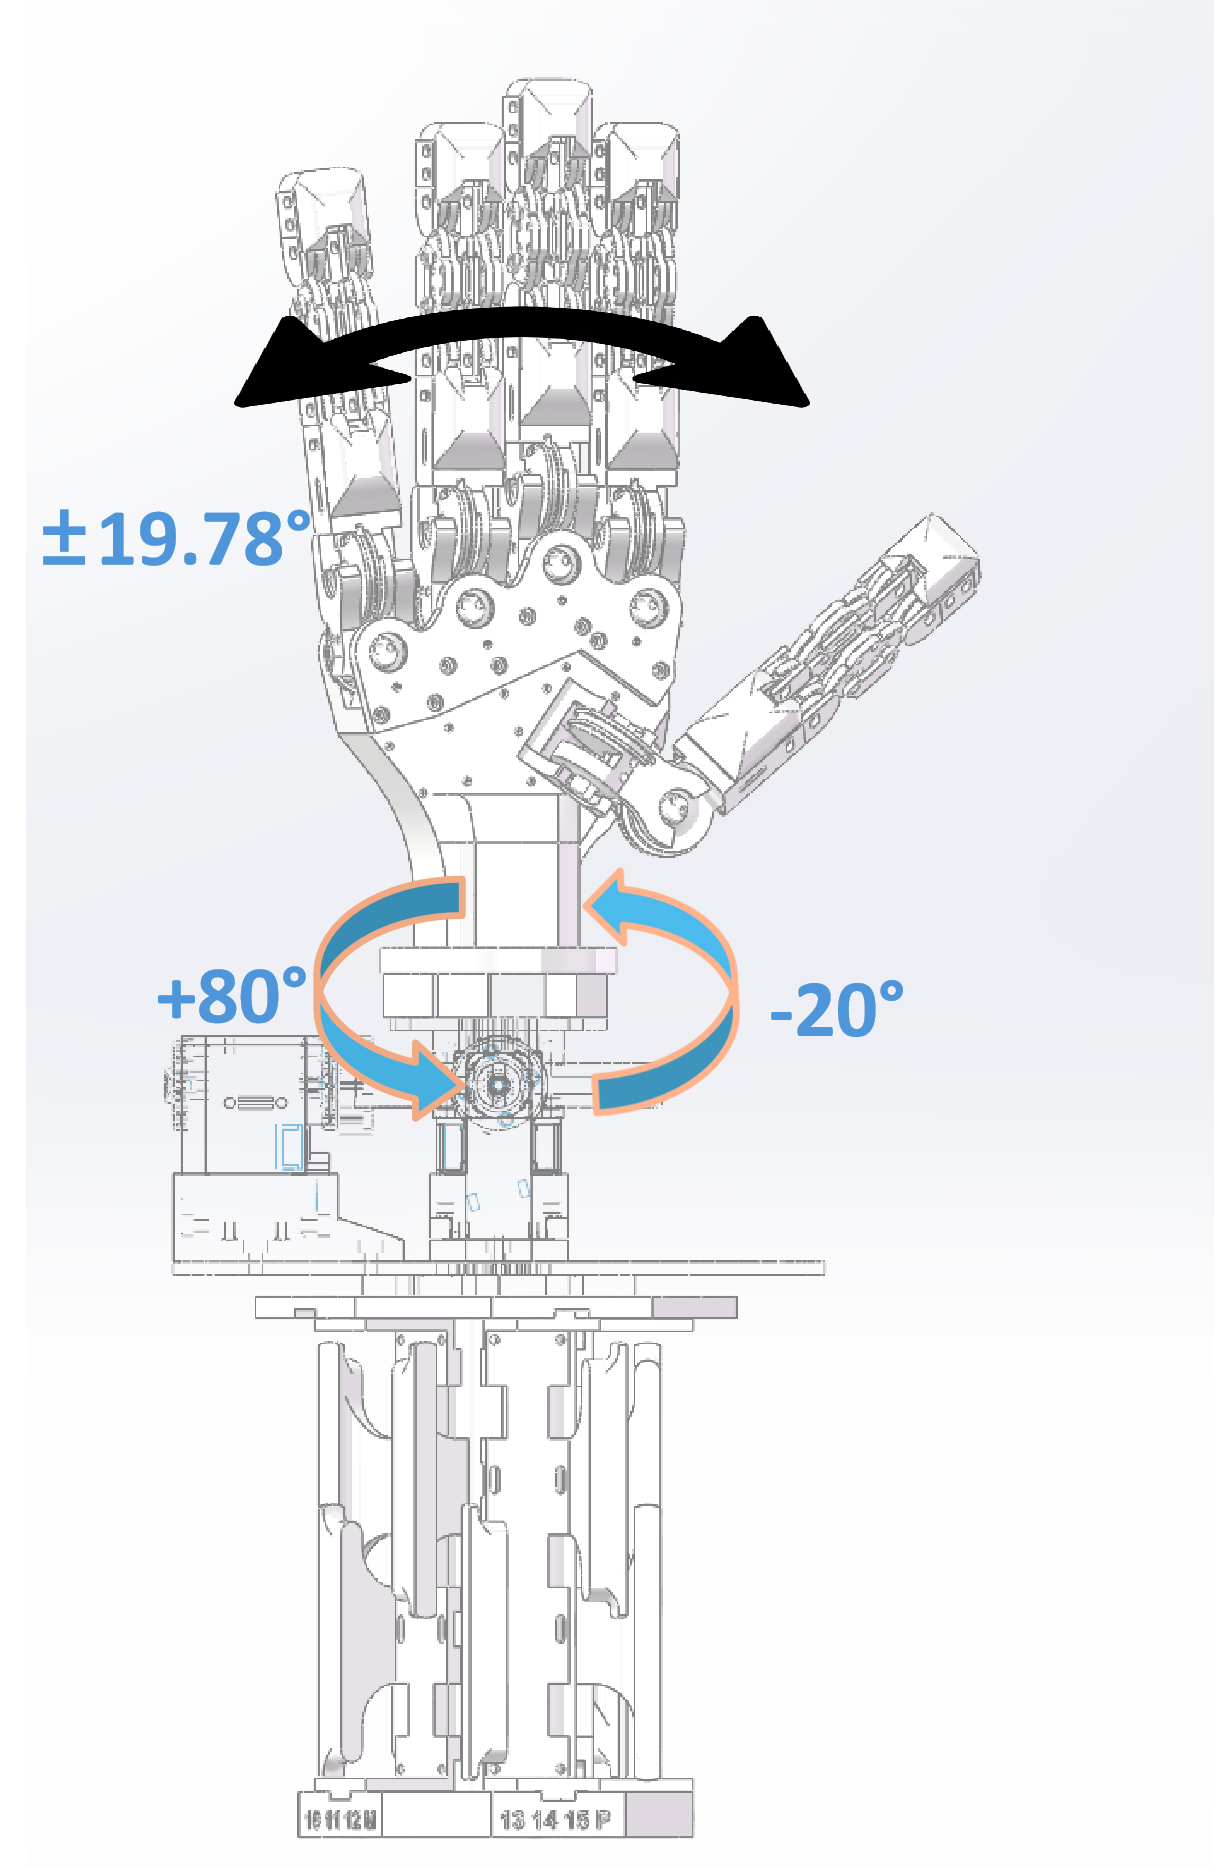
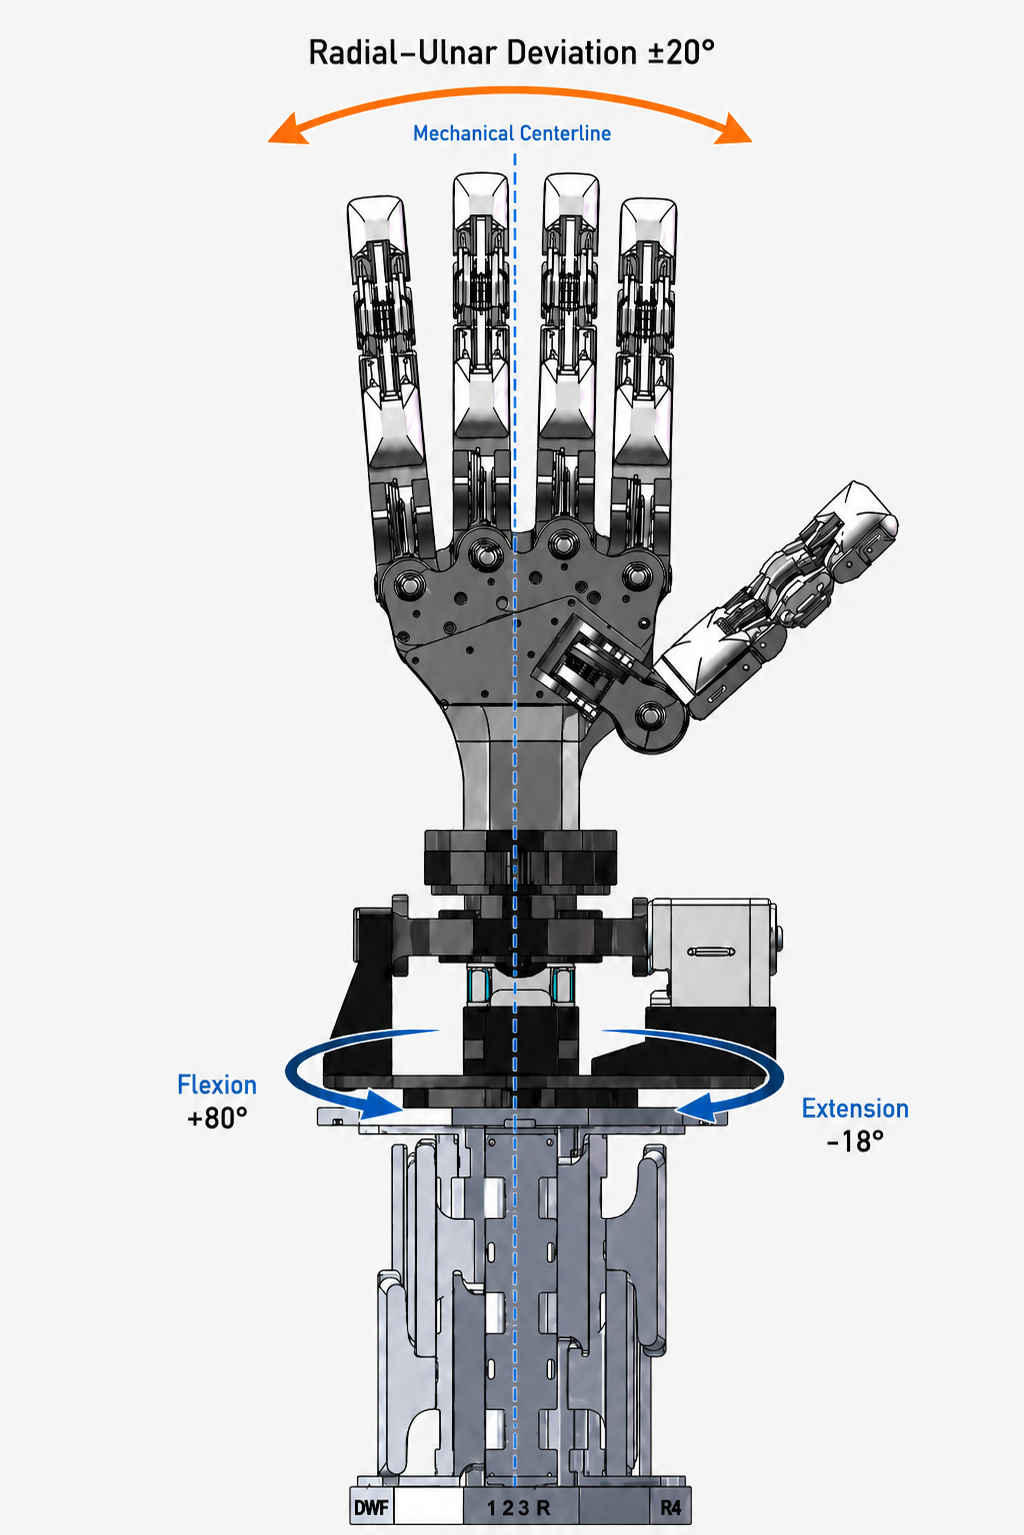
Add CSV-backed coupling characterization figure

Changed region(s): [[0.0312, 0.0306, 0.875, 1.0]]

diff --git a/app/page.tsx b/app/page.tsx
@@ -69,7 +69,7 @@ export default function Home() {
         <section className="section-shell design-section" id="design">
           <div className="section-heading"><div><p className="section-kicker">03 / Mechanical design</p><h2>Two axes. One wrist center.</h2></div><p className="heading-note">A compact extension designed around the existing hand, tendon route, and service needs.</p></div>
           <div className="design-layout">
-            <figure className="design-figure workspace-figure"><PictureImage src="/media/craft-w-wrist-workspace.png" width={1215} height={1868} alt="CRAFT-W wrist workspace showing the bending and axial-rotation ranges" loading="lazy" decoding="async" /><figcaption><span>Fig. 02 / wrist workspace</span><span>±19.78° bending · +80° / −20° axial</span></figcaption></figure>
+            <figure className="design-figure workspace-figure"><PictureImage src="/media/craft-w-wrist-workspace.png" width={1024} height={1536} alt="CRAFT-W wrist workspace showing radial–ulnar deviation and flexion–extension ranges" loading="lazy" decoding="async" /><figcaption><span>Fig. 02 / wrist workspace</span><span>±20° deviation · +80° flexion / −18° extension</span></figcaption></figure>
             <div className="design-content"><p className="design-intro">The wrist carries the distal hand as an independent module, so the existing hand mechanics, electronics, and finger-control stack remain intact.</p><div className="feature-list">{designFeatures.map((feature) => <article className="feature-card" key={feature.index}><span className="feature-index">{feature.index}</span><div><h3>{feature.title}</h3><p>{feature.body}</p></div></article>)}</div></div>
           </div>
           <div className="spec-strip" aria-label="CRAFT-W specifications">{specs.map((spec) => <div className="spec-item" key={spec.label}><span>{spec.label}</span><strong>{spec.value}</strong></div>)}</div>
@@ -78,7 +78,7 @@ export default function Home() {
         <section className="coupling-section" id="coupling">
           <div className="section-shell">
             <div className="section-heading"><div><p className="section-kicker">04 / Coupling characterization</p><h2>Test the finger across four wrist postures.</h2></div><p className="heading-note">The paper treats wrist–finger coupling as a preliminary mechanical characterization—not a complete identification.</p></div>
-            <div className="coupling-grid"><div className="coupling-copy"><p className="label">Experimental setup</p><p className="large-copy">The wrist was fixed at 15°, 30°, 45°, and 60° while finger motor 2 followed the same outward-and-return sweep.</p><p>The finger reached its prescribed travel at every posture. The comparison therefore asks how wrist posture changes motor loading, rather than whether the hand can still move.</p><div className="coupling-stats" aria-label="Coupling characterization summary"><div><strong>4</strong><span>wrist postures</span></div><div><strong>300 mA</strong><span>peak return current</span></div><div><strong>17%</strong><span>of 1750 mA limit</span></div></div></div><figure className="coupling-route"><PictureImage src="/media/wrist-tendon-routing.png" webp="/media/wrist-tendon-routing.webp" width={1800} height={1311} alt="Neutral and rotated CRAFT-W poses showing how wrist motion changes the finger tendon routing paths" loading="lazy" decoding="async" /><figcaption><span>Neutral → rotated wrist</span><span>Changing tendon paths</span></figcaption></figure></div>
+            <div className="coupling-grid"><div className="coupling-copy"><p className="label">Experimental setup</p><p className="large-copy">The wrist was fixed at 15°, 30°, 45°, and 60° while finger motor 2 followed the same outward-and-return sweep.</p><p>The finger reached its prescribed travel at every posture. The comparison therefore asks how wrist posture changes motor loading, rather than whether the hand can still move.</p><div className="coupling-stats" aria-label="Coupling characterization summary"><div><strong>4</strong><span>wrist postures</span></div><div><strong>300 mA</strong><span>peak return current</span></div><div><strong>17%</strong><span>of 1750 mA limit</span></div></div></div><figure className="coupling-route coupling-data-figure"><PictureImage src="/media/craft-w-coupling-characterization.png" width={4825} height={2792} alt="Motor 2 current traces during outward and return finger sweeps at wrist postures of 15, 30, 45, and 60 degrees" loading="lazy" decoding="async" /><figcaption><span>Motor 2 current / 516 readbacks</span><span>Solid: outward · dashed: return</span></figcaption></figure></div>
             <div className="coupling-findings"><article><p className="label">Result</p><p>Return loading was similar at 15° and 30°, increased at 45°, and was largest at 60°, where peak current reached 300 mA. No over-current event occurred.</p></article><article><p className="label">Interpretation</p><p>The separation between outward and return traces is consistent with tendon friction, routing hysteresis, or local stick–slip motion.</p></article><article><p className="label">Limit</p><p>With one sweep per posture and no current-to-torque calibration, these measurements remain preliminary rather than a complete mechanical identification.</p></article></div>
           </div>
         </section>

diff --git a/scripts/plot_coupling_characterization.py b/scripts/plot_coupling_characterization.py
@@ -1,0 +1,191 @@
+"""Plot the finger-motor loading sweep across fixed wrist postures.
+
+The input CSV is intentionally supplied at runtime so the private source-data
+location is not embedded in the site repository.
+"""
+
+from __future__ import annotations
+
+import argparse
+import csv
+from pathlib import Path
+
+import matplotlib as mpl
+import matplotlib.pyplot as plt
+from matplotlib.lines import Line2D
+
+
+COLORS = {
+    15.0: "#0F4D92",
+    30.0: "#42949E",
+    45.0: "#9A4D8E",
+    60.0: "#D97706",
+}
+
+
+def read_rows(path: Path) -> list[dict[str, float | str]]:
+    with path.open(newline="", encoding="utf-8-sig") as handle:
+        rows = list(csv.DictReader(handle))
+
+    required = {"time_s", "wrist_angle_deg", "direction", "travel_pct", "cur2"}
+    missing = required.difference(rows[0].keys() if rows else ())
+    if missing:
+        raise ValueError(f"Missing CSV columns: {', '.join(sorted(missing))}")
+
+    parsed: list[dict[str, float | str]] = []
+    for row in rows:
+        parsed.append(
+            {
+                "time_s": float(row["time_s"]),
+                "wrist_angle_deg": float(row["wrist_angle_deg"]),
+                "direction": row["direction"],
+                "travel_pct": float(row["travel_pct"]),
+                "cur2": float(row["cur2"]),
+            }
+        )
+
+    angles = sorted({row["wrist_angle_deg"] for row in parsed})
+    if angles != sorted(COLORS):
+        raise ValueError(f"Expected wrist postures {sorted(COLORS)}, found {angles}")
+    if {row["direction"] for row in parsed} != {"out", "back"}:
+        raise ValueError("Expected outward ('out') and return ('back') sweeps")
+    return parsed
+
+
+def build_figure(rows: list[dict[str, float | str]]) -> plt.Figure:
+    mpl.rcParams.update(
+        {
+            "font.family": "sans-serif",
+            "font.sans-serif": ["Arial", "Helvetica", "DejaVu Sans", "sans-serif"],
+            "font.size": 9,
+            "svg.fonttype": "none",
+            "pdf.fonttype": 42,
+            "axes.spines.right": False,
+            "axes.spines.top": False,
+            "axes.linewidth": 0.8,
+            "legend.frameon": False,
+        }
+    )
+
+    fig, ax = plt.subplots(figsize=(10, 4.8), facecolor="#F7F7F4")
+    ax.set_facecolor("#FFFFFF")
+
+    for angle in sorted(COLORS):
+        color = COLORS[angle]
+        for direction, linestyle, label in (
+            ("out", "-", "Outward"),
+            ("back", "--", "Return"),
+        ):
+            group = sorted(
+                (
+                    row
+                    for row in rows
+                    if row["wrist_angle_deg"] == angle and row["direction"] == direction
+                ),
+                key=lambda row: float(row["time_s"]),
+            )
+            ax.plot(
+                [row["travel_pct"] for row in group],
+                [row["cur2"] for row in group],
+                color=color,
+                linewidth=1.8,
+                linestyle=linestyle,
+                solid_capstyle="round",
+                dash_capstyle="round",
+                label=f"{int(angle)}° {label.lower()}",
+                zorder=3,
+            )
+
+    peak = max(
+        (row for row in rows if row["direction"] == "back"),
+        key=lambda row: float(row["cur2"]),
+    )
+    peak_x = float(peak["travel_pct"])
+    peak_y = float(peak["cur2"])
+    ax.scatter([peak_x], [peak_y], s=34, color=COLORS[60.0], edgecolor="#FFFFFF", linewidth=1, zorder=5)
+    ax.text(
+        1.0,
+        1.02,
+        "60° return peak · 300 mA",
+        transform=ax.transAxes,
+        ha="right",
+        va="bottom",
+        color="#8B4A00",
+        fontsize=8.5,
+        fontweight="bold",
+    )
+
+    ax.axhline(0, color="#B9BDC0", linewidth=0.8, zorder=1)
+    ax.set_xlim(-2, 102)
+    ax.set_ylim(-120, 330)
+    ax.set_xticks([0, 25, 50, 75, 100])
+    ax.set_yticks([-100, 0, 100, 200, 300])
+    ax.set_xlabel("Finger travel (%)", labelpad=8)
+    ax.set_ylabel("Motor 2 current (mA)", labelpad=8)
+    ax.grid(axis="y", color="#E7E9E8", linewidth=0.7)
+    ax.tick_params(axis="both", colors="#596168", length=3, width=0.7)
+    for spine in (ax.spines["left"], ax.spines["bottom"]):
+        spine.set_color("#6E777F")
+
+    ax.set_title(
+        "Finger motor loading changes with wrist posture",
+        loc="left",
+        pad=18,
+        color="#111418",
+        fontsize=14,
+        fontweight="bold",
+    )
+    ax.text(
+        0,
+        1.015,
+        f"Same outward-and-return sweep · {len(rows)} servo-current readbacks",
+        transform=ax.transAxes,
+        color="#65717A",
+        fontsize=8.5,
+        va="bottom",
+    )
+
+    posture_handles = [
+        Line2D([0], [0], color=COLORS[angle], linewidth=2.2, label=f"Wrist {int(angle)}°")
+        for angle in sorted(COLORS)
+    ]
+    direction_handles = [
+        Line2D([0], [0], color="#3E454B", linewidth=1.8, linestyle="-", label="Outward"),
+        Line2D([0], [0], color="#3E454B", linewidth=1.8, linestyle="--", label="Return"),
+    ]
+    legend = ax.legend(
+        handles=posture_handles + direction_handles,
+        ncol=1,
+        loc="upper left",
+        bbox_to_anchor=(1.02, 1.0),
+        bbox_transform=ax.transAxes,
+        borderaxespad=0,
+        columnspacing=1.2,
+        handlelength=2.2,
+        handletextpad=0.5,
+        fontsize=8,
+    )
+    legend.get_frame().set_facecolor("#FFFFFF")
+    legend.get_frame().set_alpha(0.92)
+
+    fig.tight_layout(pad=1.3, rect=(0, 0, 0.82, 1))
+    return fig
+
+
+def main() -> None:
+    parser = argparse.ArgumentParser()
+    parser.add_argument("input_csv", type=Path)
+    parser.add_argument("output_stem", type=Path)
+    args = parser.parse_args()
+
+    rows = read_rows(args.input_csv)
+    fig = build_figure(rows)
+    args.output_stem.parent.mkdir(parents=True, exist_ok=True)
+    fig.savefig(args.output_stem.with_suffix(".png"), dpi=600, bbox_inches="tight", facecolor=fig.get_facecolor())
+    fig.savefig(args.output_stem.with_suffix(".svg"), bbox_inches="tight", facecolor=fig.get_facecolor())
+    fig.savefig(args.output_stem.with_suffix(".pdf"), bbox_inches="tight", facecolor=fig.get_facecolor())
+    plt.close(fig)
+
+
+if __name__ == "__main__":
+    main()
